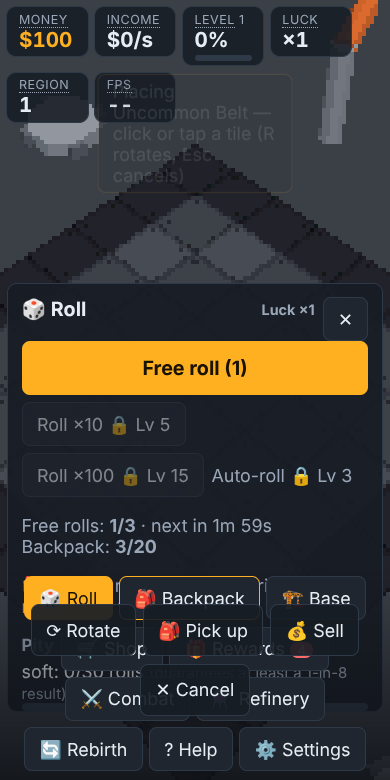
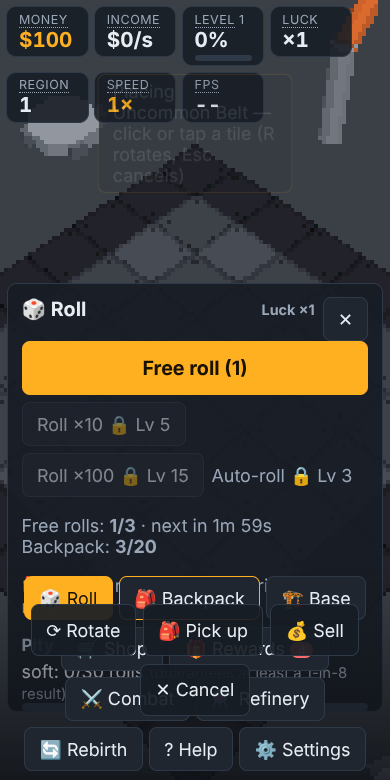
F4: unlockable game speed with HUD control, locked options, real-time playtime
Speed rules in data (level/rebirth, endless generated), HUD speed button,
locked speeds refused in the simulation and clamped on load, e2e proof at 2x,
offline and saves unaffected at every speed.

Claude-Session: https://claude.ai/code/session_011VYbZSuUCkNWsTYrz2ifYB

Changed region(s): [[0.4615, 0.0923, 0.6769, 0.1538], [0.2769, 0.0923, 0.3692, 0.1538]]

diff --git a/e2e/f4-speed.spec.js b/e2e/f4-speed.spec.js
@@ -1,0 +1,103 @@
+import { test, expect } from '@playwright/test';
+import { openGame, expectNoErrors } from './helpers.js';
+
+const speedSelect = (page) => page.locator('select[data-key="gameSpeed"]');
+const openSettings = async (page) => { await page.evaluate(() => window.__game.shell.open('settings')); await page.locator('summary', { hasText: 'Display' }).evaluate((el) => { el.parentElement.open = true; }); };
+
+test('speed starts at 1x; the selector shows locked speeds as locked with their requirement and a locked speed cannot be chosen', async ({ page }) => {
+  const errors = await openGame(page, { simpleUI: true });
+  expect(await page.evaluate(() => window.__game.loop.speed)).toBe(1);
+  await openSettings(page);
+  const opts = await speedSelect(page).locator('option').evaluateAll((os) => os.map((o) => ({ v: o.value, text: o.textContent.trim(), disabled: o.disabled })));
+  expect(opts.find((o) => o.v === '1' && !o.disabled)).toBeTruthy();
+  expect(opts.find((o) => o.v === '0.5' && !o.disabled), 'slow speeds are never locked').toBeTruthy();
+  const two = opts.find((o) => o.v === '2');
+  expect(two.disabled).toBe(true);
+  expect(two.text).toMatch(/locked: unlocks at level 10/);
+  expect(opts.find((o) => o.v === '4').text).toMatch(/level 30/);
+  // forcing the disabled option through the browser changes nothing (the option is disabled and the simulation validates too)...
+  await speedSelect(page).selectOption('2', { timeout: 1500 }).catch(() => {});
+  expect(await page.evaluate(() => window.__game.state.settings.gameSpeed)).toBe(1);
+  expect(await page.evaluate(() => window.__game.loop.speed)).toBe(1);
+  // ...and setting it directly is refused by the simulation
+  await page.evaluate(() => window.__game.set('gameSpeed', 4));
+  expect(await page.evaluate(() => window.__game.state.settings.gameSpeed)).toBe(1);
+  expect(await page.evaluate(() => window.__game.loop.speed)).toBe(1);
+  await expect(page.locator('#hud [data-chip="speed"]')).toBeHidden();
+  await expectNoErrors(errors);
+});
+
+test('slow speeds are always available and really slow the simulation', async ({ page }) => {
+  await openGame(page);
+  await openSettings(page);
+  await speedSelect(page).selectOption('0.5');
+  expect(await page.evaluate(() => window.__game.loop.speed)).toBe(0.5);
+  const t0 = await page.evaluate(() => window.__game.loop.simTime);
+  await page.waitForTimeout(2000);
+  const t1 = await page.evaluate(() => window.__game.loop.simTime);
+  expect(t1 - t0).toBeGreaterThan(0.5);
+  expect(t1 - t0).toBeLessThan(1.6); // about 1 simulated second in 2 real seconds
+});
+
+test('reaching level 10 unlocks 2x: the HUD speed button appears, cycles, and the sim runs twice as fast while saves and playtime stay real-time', async ({ page }) => {
+  const errors = await openGame(page, { simpleUI: true });
+  await page.evaluate(() => { window.__game.game.debug.setLevel(10); window.__game.game.step(1.1); });
+  await expect(page.locator('#hud [data-chip="speed"]')).toBeVisible();
+  await expect(page.locator('#hud [data-chip="speed"]')).toContainText('1×');
+  await page.locator('#hud [data-chip="speed"]').click();
+  await expect(page.locator('#hud [data-chip="speed"]')).toContainText('2×');
+  expect(await page.evaluate(() => window.__game.loop.speed)).toBe(2);
+  const m = () => page.evaluate(() => ({ sim: window.__game.loop.simTime, play: window.__game.state.playtime, saved: window.__game.state.savedAt }));
+  const a = await m();
+  await page.waitForTimeout(2000);
+  const b = await m();
+  const simDt = b.sim - a.sim;
+  const playDt = b.play - a.play;
+  expect(simDt).toBeGreaterThan(2.4); // ~4 simulated seconds in 2 real seconds
+  expect(playDt).toBeGreaterThan(1.2);
+  expect(playDt).toBeLessThan(simDt * 0.75); // playtime counts real seconds, not simulated ones
+  // the next press goes back to 1x (4x needs level 30)
+  await page.locator('#hud [data-chip="speed"]').click();
+  await expect(page.locator('#hud [data-chip="speed"]')).toContainText('1×');
+  // a save written at 2x reloads at 2x (the unlock is derived from level, not stored as a flag)
+  await page.locator('#hud [data-chip="speed"]').click();
+  await page.evaluate(() => window.__game.saveNow());
+  await page.reload();
+  await page.waitForFunction(() => window.__game && window.__game.loop.frames > 2);
+  expect(await page.evaluate(() => window.__game.loop.speed)).toBe(2);
+  await expectNoErrors(errors);
+});
+
+test('a saved speed that is not unlocked (edited save) is clamped when the game loads', async ({ page }) => {
+  await openGame(page);
+  await page.evaluate(() => { window.__game.state.settings.gameSpeed = 64; window.__game.saveNow(); });
+  await page.reload();
+  await page.waitForFunction(() => window.__game && window.__game.loop.frames > 2);
+  expect(await page.evaluate(() => window.__game.loop.speed)).toBe(1);
+});
+
+test('offline progress is the same whatever the game speed was', async ({ page }) => {
+  await openGame(page);
+  const gain = (speed) => page.evaluate((sp) => {
+    const g = window.__game.game;
+    const s = window.__game.state;
+    s.settings.gameSpeed = sp;
+    g.place(s.bag.find((u) => s.items[u].tpl === 'pebble_drill'), 1, 1, 0);
+    g.place(s.bag.find((u) => s.items[u].tpl === 'stall'), 2, 1, 0);
+    const before = s.money.toNumber();
+    g.catchUp(Date.now() - 3600 * 1000); // an hour away
+    return s.money.toNumber() - before;
+  }, speed);
+  const a = await gain(1);
+  // a second identical catch-up at another speed on the same layout earns the same amount
+  const b = await page.evaluate(() => {
+    const g = window.__game.game;
+    const s = window.__game.state;
+    s.settings.gameSpeed = 0.5;
+    const before = s.money.toNumber();
+    g.catchUp(Date.now() - 3600 * 1000);
+    return s.money.toNumber() - before;
+  });
+  expect(a).toBeGreaterThan(1000);
+  expect(Math.abs(a - b) / a).toBeLessThan(1e-6);
+});

diff --git a/src/main.js b/src/main.js
@@ -27,7 +27,7 @@ import { visiblePanels, visibleChips } from './sim/disclosure.js';
 import { createPlacement } from './ui/placement.js';
 import { createTouchControls } from './ui/touch.js';
 import { createTutorialUI } from './ui/tutorial.js';
-import { effectiveSpeed } from './sim/speed.js';
+import { effectiveSpeed, unlockedSpeeds } from './sim/speed.js';
 import { createTipsUI } from './ui/tips.js';
 import { createTooltips } from './ui/tooltips.js';
 import { MODES } from './sim/difficulty.js';
@@ -165,6 +165,15 @@ const ctx = {
     shell.refresh();
   },
   tutorialStatus: () => ({ new: 'not started', active: 'in progress', paused: 'paused', skipped: 'skipped', done: `finished (${gs().tutorial.completed}×)` })[gs().tutorial.status] || 'unknown',
+  /** The HUD speed button: next unlocked speed at or above 1x, wrapping to 1x (slow speeds stay in Settings). */
+  cycleSpeed: () => {
+    const fast = unlockedSpeeds(gs()).filter((x) => x >= 1);
+    const cur = effectiveSpeed(gs());
+    const next = fast[(fast.indexOf(cur) + 1) % fast.length] ?? 1;
+    ctx.set('gameSpeed', next);
+    toast(`Game speed ${next}×`, 1800);
+    announce(`Game speed ${next} times`);
+  },
   undo: () => {
     const r = game.undo();
     if (r.ok) {
@@ -208,7 +217,7 @@ const ctx = {
   },
 };
 const panels = [createRollPanel(ctx), createBackpackPanel(ctx), createBasePanel(ctx), createShopPanel(ctx), createRewardsPanel(ctx), createCombatPanel(ctx), createRefineryPanel(ctx), createRebirthPanel(ctx), createHelpPanel(ctx), createSettingsPanel(ctx), createIncomePanel(ctx)];
-const shell = createShell({ game, fmt, panels, onOpen: (id) => id && game.tutorial.flag('panel:' + id) });
+const shell = createShell({ game, fmt, panels, onOpen: (id) => id && game.tutorial.flag('panel:' + id), onSpeed: () => ctx.cycleSpeed() });
 const tutorialUI = createTutorialUI({ game, shell, placement, gfx, root: document.getElementById('tutorial'), syncLayout: () => syncDisclosure() });
 // the tutorial's "inspect" step: the player looked at (clicked or focused) an item card
 document.getElementById('panels').addEventListener('click', (e) => {

diff --git a/src/ui/hud.js b/src/ui/hud.js
@@ -5,8 +5,9 @@ import { esc, patchHtml, delegate, textInput, term } from './dom.js';
 import { levelProgress } from '../sim/leveling.js';
 import { luckOf } from '../sim/economy.js';
 import { PANEL_RULES } from '../sim/disclosure.js';
+import { effectiveSpeed } from '../sim/speed.js';
 
-export function createShell({ game, fmt, panels, onOpen }) {
+export function createShell({ game, fmt, panels, onOpen, onSpeed }) {
   const hudEl = document.getElementById('hud');
   const dock = document.getElementById('dock');
   const host = document.getElementById('panels');
@@ -20,8 +21,10 @@ export function createShell({ game, fmt, panels, onOpen }) {
     <div class="chip" data-chip="level"><small>${term('level', 'Level')} <span data-bind="level">1</span></small><b data-bind="xp">0%</b><div class="xpbar"><i data-bind="xpbar" style="width:0"></i></div></div>
     <div class="chip" data-chip="luck"><small>${term('luck', 'Luck')}</small><b data-bind="luck">×1</b></div>
     <div class="chip" data-chip="region"><small>${term('region', 'Region')}</small><b data-bind="region">1</b></div>
+    <button type="button" class="chip" data-chip="speed" data-act-speed aria-label="Game speed. Press to switch to the next unlocked speed" hidden><small>${term('speed', 'Speed', { focus: false })}</small><b data-bind="speed">1×</b></button>
     <div class="chip" data-chip="fps"><small>${term('fps', 'FPS')}</small><b data-bind="fps">--</b></div>`;
   hudEl.querySelector('[data-act-income]').addEventListener('click', () => toggle('income'));
+  hudEl.querySelector('[data-act-speed]').addEventListener('click', () => onSpeed && onSpeed());
   const refs = {};
   hudEl.querySelectorAll('[data-bind]').forEach((n) => (refs[n.dataset.bind] = n));
 
@@ -120,6 +123,7 @@ export function createShell({ game, fmt, panels, onOpen }) {
       refs.xpbar.style.width = p * 100 + '%';
       refs.luck.textContent = '×' + fmt(luckOf(s));
       refs.region.textContent = String(s.region + 1);
+      refs.speed.textContent = `${effectiveSpeed(s)}×`;
     },
   };
 }

diff --git a/src/sim/disclosure.js b/src/sim/disclosure.js
@@ -4,6 +4,7 @@ import D from '../data/disclosure.json' with { type: 'json' };
 import { requirementMet, describeReq } from './unlock.js';
 import { emit } from '../core/events.js';
 import { STEPS } from './tutorial.js';
+import { unlockedSpeeds } from './speed.js';
 
 export const PANEL_RULES = D.panels;
 export const CHIP_RULES = D.chips;
@@ -39,7 +40,9 @@ export function visiblePanels(state) {
 
 export function visibleChips(state) {
   const adv = state.settings.advancedUI;
-  return new Set(Object.keys(D.chips).filter((id) => adv || (D.chips[id] !== 'advanced' && met(state, D.chips[id]))));
+  const out = new Set(Object.keys(D.chips).filter((id) => adv || (D.chips[id] !== 'advanced' && met(state, D.chips[id]))));
+  if (adv || unlockedSpeeds(state).some((s) => s > 1)) out.add('speed'); // the speed control appears with the first faster speed
+  return out;
 }
 
 export const unlockHint = (id) => (D.panels[id] && D.panels[id] !== 'advanced' ? describeReq(D.panels[id]) : '');

diff --git a/src/ui/style.css b/src/ui/style.css
@@ -205,3 +205,4 @@ button.chip { cursor: pointer; }
 .undo-chip { pointer-events: auto; min-height: 44px; border: 1px solid var(--accent); background: var(--panel); color: var(--text); border-radius: 999px; padding: 0 1rem; box-shadow: 0 4px 14px rgba(0, 0, 0, .4); }
 #dock button.is-new::after { content: "NEW"; margin-left: .35rem; font-size: .6rem; font-weight: 800; letter-spacing: .06em; background: var(--accent); color: var(--accent-text, #111); border-radius: 4px; padding: 1px 4px; }
 @media (max-width: 640px) { :root { --ui-auto: 1.12; } }
+.chip[data-chip="speed"] b { color: var(--accent); }

diff --git a/CHANGELOG.md b/CHANGELOG.md
@@ -105,3 +105,9 @@ All notable changes, by milestone. Dates are build dates.
 - `data/disclosure.json` + `sim/disclosure.js` + `sim/unlock.js`: progressive disclosure with unlock toasts and NEW badges; Settings -> Advanced UI shows everything. The speed unlock rules now share `sim/unlock.js`.
 - Friendly default number format (`12,345`), larger default text on phones, "Need $X more" and one-click fixes for blocked actions.
 - Changed tests (intended UI/behaviour changes): `tests/input.test.js` rebinding used `KeyZ`, which is now Undo; `tests/migration.test.js` default number format is now `friendly`; the e2e helper turns on the Advanced UI (older tests click every panel from level 1) and answers the first-run pace dialog.
+
+## F4 — Game speed is unlocked, not given
+- Rules in `data/speed.json` (2x at level 10, 4x at level 30, 8x after the first rebirth, then 16x, 32x, 64x ... forever from rebirth counts), requirement shared with disclosure in `sim/unlock.js`; slow speeds (0.5x, 0.75x) are never locked and the Settings text explains the difference.
+- HUD speed button (appears with the first faster speed) and the Settings selector with locked options and their requirement; locked speeds are refused in the simulation (`game.setSetting`), and a saved locked speed is clamped on load.
+- Speed scales only the simulation: bounded work per frame at any speed (step grows above 4x, combat sub-stepped at <= 0.1 s), playtime counts real seconds, offline progress and saves are unaffected (tests at every speed).
+- Found and fixed: a hidden-dock-button fallback in the tutorial spotlight (BUGS #36).

diff --git a/VERIFICATION.md b/VERIFICATION.md
@@ -179,3 +179,13 @@ Honest note: the 15% enemy-health reduction does not change the highest wave a b
 | Friendly numbers, larger text on phones | `tests/bignum.test.js`, e2e | PASS |
 | Whole e2e suite after F3 | 74 + 1 passed (the boss test was fixed, see BUGS #35) | PASS |
 Not verified: that the explanations are *clear to a new player* (nobody but me has read them); screen-reader output of the tooltips and the income list; that Tab order through item lists is comfortable (stat labels in long lists are deliberately not tab stops).
+
+## F4 — Unlockable game speed
+| What | How tested | Result |
+|---|---|---|
+| Rules from data, endless generated speeds, requirement text, locked option listing | `tests/speed.test.js` | PASS |
+| A locked speed cannot be chosen (disabled option, direct set refused, clamped on load), slow speeds always available | `tests/speed.test.js`, `e2e/f4-speed.spec.js` | PASS |
+| Pure scaling in the loop (0.5x-4x correct, 64x bounded steps per frame) | `tests/speed.test.js` | PASS |
+| In a real browser at 2x: sim time ~2x real time, playtime stays real-time, HUD button appears at level 10 and cycles, save reloads at 2x | `e2e/f4-speed.spec.js` | PASS |
+| Offline progress identical at every speed (unit: 0.5x ... 64x; e2e: hour away at 1x vs 0.5x) and saves independent of speed | `tests/speed.test.js`, e2e | PASS |
+Not verified: how very high speeds (hundreds of x) *feel* or perform on a real device; I only checked the per-frame step bound in the loop test and that the simulation stays finite.

diff --git a/README.md b/README.md
@@ -184,7 +184,7 @@ Measured honestly: with the bot, Relaxed reaches the third prestige layer 9% soo
 
 Speed starts at **1×**. Slower speeds (0.5×, 0.75×) are an accessibility option and are never locked. Faster speeds are unlocked by progress; the rules are data in `src/data/speed.json`:
 2× at level 10, 4× at level 30, 8× after your first rebirth, and then 16×, 32×, 64× … forever (2^k needs `k − 2` rebirths from 16× on).
-**Settings → Game speed** lists locked options as locked with their requirement ("unlocks at level 10"), and a locked speed cannot be chosen (the setting is validated in the simulation, not only in the UI).
+A **Speed** button appears in the status bar as soon as the first faster speed is unlocked (or with Advanced UI): it cycles through your unlocked speeds from 1×. **Settings → Game speed** lists locked options as locked with their requirement ("unlocks at level 10"), and a locked speed cannot be chosen (the setting is validated in the simulation, not only in the UI).
 Speed scales the simulation only (`core/loop.js`): saves, the real clock and offline progress never see it (offline progress is closed-form from the real elapsed time, so it is identical at every speed, which a unit test checks), and playtime counts real seconds.
 Above 4× the fixed step grows (speed/4 × 0.05 s) so the work per frame stays bounded, and combat is still simulated in steps of at most 0.1 s.
 

diff --git a/BUGS.md b/BUGS.md
@@ -39,3 +39,4 @@ A bug is marked **Fixed** only after the proof (a test or a run) was executed an
 | 33 | F3 tooltips | Tapping a focusable term showed its popover (focus) and then hid it again (click toggle) | `e2e/f3-clarity.spec.js` touch test failed before; passes after (a click right after the focus-triggered show is ignored) | Fixed |
 | 34 | F3 a11y | A panel re-render replaced the focused term, dropping keyboard focus and closing its tooltip; scrolling also closed it | e2e "a focused tooltip term keeps keyboard focus" failed before; `patchHtml` restores focus on tooltip terms and the tooltip follows scrolling | Fixed |
 | 35 | M7 e2e (test) | The boss test assumed the backpack grows by exactly 1 during a 120 s fast-forward, but automatic waves may drop a weapon too (flaky 2 of 6 runs) | assertion is now ">= +1"; 8 consecutive runs pass | Fixed (test) |
+| 36 | F3 tutorial UI | In the simple UI the "peek at Rebirth" spotlight could land on the Settings button for a moment (the dock button was still hidden), so a click opened Settings instead of Rebirth | `e2e/f2-tutorial-walk.spec.js` failed 3 of 3 runs after F3 introduced progressive disclosure; panels a step needs are revealed in the same update and hidden-target fallbacks no longer point elsewhere; 10 consecutive runs of the tutorial specs pass (30 tests, repeat-each 3) | Fixed |
